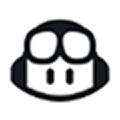
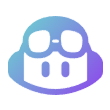
更新友情链接图标

diff --git a/public/友情链接/index.html b/public/友情链接/index.html
@@ -10,7 +10,7 @@
 <meta property='og:description' content="">
 <meta property='og:url' content='http://localhost:1313/Hugo_Web/%E5%8F%8B%E6%83%85%E9%93%BE%E6%8E%A5/'>
 <meta property='og:site_name' content='lingsir007'>
-<meta property='og:type' content='article'><meta property='article:section' content='Page' /><meta property='article:modified_time' content='2025-05-18T01:00:12&#43;08:00'/>
+<meta property='og:type' content='article'><meta property='article:section' content='Page' /><meta property='article:modified_time' content='2026-06-20T20:34:26&#43;08:00'/>
 <meta name="twitter:title" content="友情链接">
 <meta name="twitter:description" content="">
     <link rel="shortcut icon" href="/icons/favicon.ico" />
@@ -350,7 +350,7 @@
 
 
         <span>
-            最后更新于 May 18, 2025 01:00 CST
+            最后更新于 Jun 20, 2026 20:34 CST
         </span>
     </section></footer>
 
@@ -426,8 +426,10 @@
                 
                     
                     
+                        
+                    
                     <div class="article-image">
-                        <img src="https://github.githubassets.com/images/modules/logos_page/GitHub-Mark.png" loading="lazy">
+                        <img src="/Hugo_Web/%E5%8F%8B%E6%83%85%E9%93%BE%E6%8E%A5/GitHub-Mark.png" loading="lazy">
                     </div>
                 
             </a>

diff --git a/public/categories/test/index.html b/public/categories/test/index.html
@@ -10,7 +10,7 @@
 <meta property='og:description' content="This is an example category">
 <meta property='og:url' content='http://localhost:1313/Hugo_Web/categories/test/'>
 <meta property='og:site_name' content='lingsir007'>
-<meta property='og:type' content='website'><meta property='og:updated_time' content=' 2025-05-18T01:00:12&#43;08:00 '/><meta property='og:image' content='http://localhost:1313/Hugo_Web/categories/test/hutomo-abrianto-l2jk-uxb1BY-unsplash.jpg' />
+<meta property='og:type' content='website'><meta property='og:updated_time' content=' 2026-06-20T20:34:26&#43;08:00 '/><meta property='og:image' content='http://localhost:1313/Hugo_Web/categories/test/hutomo-abrianto-l2jk-uxb1BY-unsplash.jpg' />
 <meta name="twitter:title" content="Category: Test - lingsir007">
 <meta name="twitter:description" content="This is an example category"><meta name="twitter:card" content="summary_large_image">
     <meta name="twitter:image" content='http://localhost:1313/Hugo_Web/categories/test/hutomo-abrianto-l2jk-uxb1BY-unsplash.jpg' /><link rel="alternate" type="application/rss&#43;xml" href="http://localhost:1313/Hugo_Web/categories/test/index.xml">

diff --git a/public/categories/主题/index.html b/public/categories/主题/index.html
@@ -10,7 +10,7 @@
 <meta property='og:description' content="欢迎来到我的网站">
 <meta property='og:url' content='http://localhost:1313/Hugo_Web/categories/%E4%B8%BB%E9%A2%98/'>
 <meta property='og:site_name' content='lingsir007'>
-<meta property='og:type' content='website'><meta property='og:updated_time' content=' 2025-05-18T01:00:12&#43;08:00 '/>
+<meta property='og:type' content='website'><meta property='og:updated_time' content=' 2026-06-20T20:34:26&#43;08:00 '/>
 <meta name="twitter:title" content="Category: 主题 - lingsir007">
 <meta name="twitter:description" content="欢迎来到我的网站"><link rel="alternate" type="application/rss&#43;xml" href="http://localhost:1313/Hugo_Web/categories/%E4%B8%BB%E9%A2%98/index.xml">
     <link rel="shortcut icon" href="/icons/favicon.ico" />

diff --git a/public/categories/语法/index.html b/public/categories/语法/index.html
@@ -10,7 +10,7 @@
 <meta property='og:description' content="欢迎来到我的网站">
 <meta property='og:url' content='http://localhost:1313/Hugo_Web/categories/%E8%AF%AD%E6%B3%95/'>
 <meta property='og:site_name' content='lingsir007'>
-<meta property='og:type' content='website'><meta property='og:updated_time' content=' 2025-05-18T01:00:12&#43;08:00 '/>
+<meta property='og:type' content='website'><meta property='og:updated_time' content=' 2026-06-20T20:34:26&#43;08:00 '/>
 <meta name="twitter:title" content="Category: 语法 - lingsir007">
 <meta name="twitter:description" content="欢迎来到我的网站"><link rel="alternate" type="application/rss&#43;xml" href="http://localhost:1313/Hugo_Web/categories/%E8%AF%AD%E6%B3%95/index.xml">
     <link rel="shortcut icon" href="/icons/favicon.ico" />

diff --git a/public/tags/主题/index.html b/public/tags/主题/index.html
@@ -10,7 +10,7 @@
 <meta property='og:description' content="欢迎来到我的网站">
 <meta property='og:url' content='http://localhost:1313/Hugo_Web/tags/%E4%B8%BB%E9%A2%98/'>
 <meta property='og:site_name' content='lingsir007'>
-<meta property='og:type' content='website'><meta property='og:updated_time' content=' 2025-05-18T01:00:12&#43;08:00 '/>
+<meta property='og:type' content='website'><meta property='og:updated_time' content=' 2026-06-20T20:34:26&#43;08:00 '/>
 <meta name="twitter:title" content="Tag: 主题 - lingsir007">
 <meta name="twitter:description" content="欢迎来到我的网站"><link rel="alternate" type="application/rss&#43;xml" href="http://localhost:1313/Hugo_Web/tags/%E4%B8%BB%E9%A2%98/index.xml">
     <link rel="shortcut icon" href="/icons/favicon.ico" />

diff --git a/public/categories/emoji/index.html b/public/categories/emoji/index.html
@@ -10,7 +10,7 @@
 <meta property='og:description' content="欢迎来到我的网站">
 <meta property='og:url' content='http://localhost:1313/Hugo_Web/categories/emoji/'>
 <meta property='og:site_name' content='lingsir007'>
-<meta property='og:type' content='website'><meta property='og:updated_time' content=' 2025-05-18T01:00:12&#43;08:00 '/>
+<meta property='og:type' content='website'><meta property='og:updated_time' content=' 2026-06-20T20:34:26&#43;08:00 '/>
 <meta name="twitter:title" content="Category: Emoji - lingsir007">
 <meta name="twitter:description" content="欢迎来到我的网站"><link rel="alternate" type="application/rss&#43;xml" href="http://localhost:1313/Hugo_Web/categories/emoji/index.xml">
     <link rel="shortcut icon" href="/icons/favicon.ico" />

diff --git a/public/tags/markdown/index.html b/public/tags/markdown/index.html
@@ -10,7 +10,7 @@
 <meta property='og:description' content="欢迎来到我的网站">
 <meta property='og:url' content='http://localhost:1313/Hugo_Web/tags/markdown/'>
 <meta property='og:site_name' content='lingsir007'>
-<meta property='og:type' content='website'><meta property='og:updated_time' content=' 2025-05-18T01:00:12&#43;08:00 '/>
+<meta property='og:type' content='website'><meta property='og:updated_time' content=' 2026-06-20T20:34:26&#43;08:00 '/>
 <meta name="twitter:title" content="Tag: Markdown - lingsir007">
 <meta name="twitter:description" content="欢迎来到我的网站"><link rel="alternate" type="application/rss&#43;xml" href="http://localhost:1313/Hugo_Web/tags/markdown/index.xml">
     <link rel="shortcut icon" href="/icons/favicon.ico" />

diff --git a/public/tags/emoji/index.html b/public/tags/emoji/index.html
@@ -10,7 +10,7 @@
 <meta property='og:description' content="欢迎来到我的网站">
 <meta property='og:url' content='http://localhost:1313/Hugo_Web/tags/emoji/'>
 <meta property='og:site_name' content='lingsir007'>
-<meta property='og:type' content='website'><meta property='og:updated_time' content=' 2025-05-18T01:00:12&#43;08:00 '/>
+<meta property='og:type' content='website'><meta property='og:updated_time' content=' 2026-06-20T20:34:26&#43;08:00 '/>
 <meta name="twitter:title" content="Tag: Emoji - lingsir007">
 <meta name="twitter:description" content="欢迎来到我的网站"><link rel="alternate" type="application/rss&#43;xml" href="http://localhost:1313/Hugo_Web/tags/emoji/index.xml">
     <link rel="shortcut icon" href="/icons/favicon.ico" />

diff --git a/public/tags/html/index.html b/public/tags/html/index.html
@@ -10,7 +10,7 @@
 <meta property='og:description' content="欢迎来到我的网站">
 <meta property='og:url' content='http://localhost:1313/Hugo_Web/tags/html/'>
 <meta property='og:site_name' content='lingsir007'>
-<meta property='og:type' content='website'><meta property='og:updated_time' content=' 2025-05-18T01:00:12&#43;08:00 '/>
+<meta property='og:type' content='website'><meta property='og:updated_time' content=' 2026-06-20T20:34:26&#43;08:00 '/>
 <meta name="twitter:title" content="Tag: Html - lingsir007">
 <meta name="twitter:description" content="欢迎来到我的网站"><link rel="alternate" type="application/rss&#43;xml" href="http://localhost:1313/Hugo_Web/tags/html/index.xml">
     <link rel="shortcut icon" href="/icons/favicon.ico" />

diff --git a/public/tags/css/index.html b/public/tags/css/index.html
@@ -10,7 +10,7 @@
 <meta property='og:description' content="欢迎来到我的网站">
 <meta property='og:url' content='http://localhost:1313/Hugo_Web/tags/css/'>
 <meta property='og:site_name' content='lingsir007'>
-<meta property='og:type' content='website'><meta property='og:updated_time' content=' 2025-05-18T01:00:12&#43;08:00 '/>
+<meta property='og:type' content='website'><meta property='og:updated_time' content=' 2026-06-20T20:34:26&#43;08:00 '/>
 <meta name="twitter:title" content="Tag: Css - lingsir007">
 <meta name="twitter:description" content="欢迎来到我的网站"><link rel="alternate" type="application/rss&#43;xml" href="http://localhost:1313/Hugo_Web/tags/css/index.xml">
     <link rel="shortcut icon" href="/icons/favicon.ico" />

diff --git a/public/categories/index.html b/public/categories/index.html
@@ -10,7 +10,7 @@
 <meta property='og:description' content="欢迎来到我的网站">
 <meta property='og:url' content='http://localhost:1313/Hugo_Web/categories/'>
 <meta property='og:site_name' content='lingsir007'>
-<meta property='og:type' content='website'><meta property='og:updated_time' content=' 2025-05-18T01:00:12&#43;08:00 '/>
+<meta property='og:type' content='website'><meta property='og:updated_time' content=' 2026-06-20T20:34:26&#43;08:00 '/>
 <meta name="twitter:title" content="Categories">
 <meta name="twitter:description" content="欢迎来到我的网站"><link rel="alternate" type="application/rss&#43;xml" href="http://localhost:1313/Hugo_Web/categories/index.xml">
     <link rel="shortcut icon" href="/icons/favicon.ico" />

diff --git a/public/categories/page/2/index.html b/public/categories/page/2/index.html
@@ -10,7 +10,7 @@
 <meta property='og:description' content="欢迎来到我的网站">
 <meta property='og:url' content='http://localhost:1313/Hugo_Web/categories/'>
 <meta property='og:site_name' content='lingsir007'>
-<meta property='og:type' content='website'><meta property='og:updated_time' content=' 2025-05-18T01:00:12&#43;08:00 '/>
+<meta property='og:type' content='website'><meta property='og:updated_time' content=' 2026-06-20T20:34:26&#43;08:00 '/>
 <meta name="twitter:title" content="Categories">
 <meta name="twitter:description" content="欢迎来到我的网站"><link rel="alternate" type="application/rss&#43;xml" href="http://localhost:1313/Hugo_Web/categories/index.xml">
     <link rel="shortcut icon" href="/icons/favicon.ico" />
